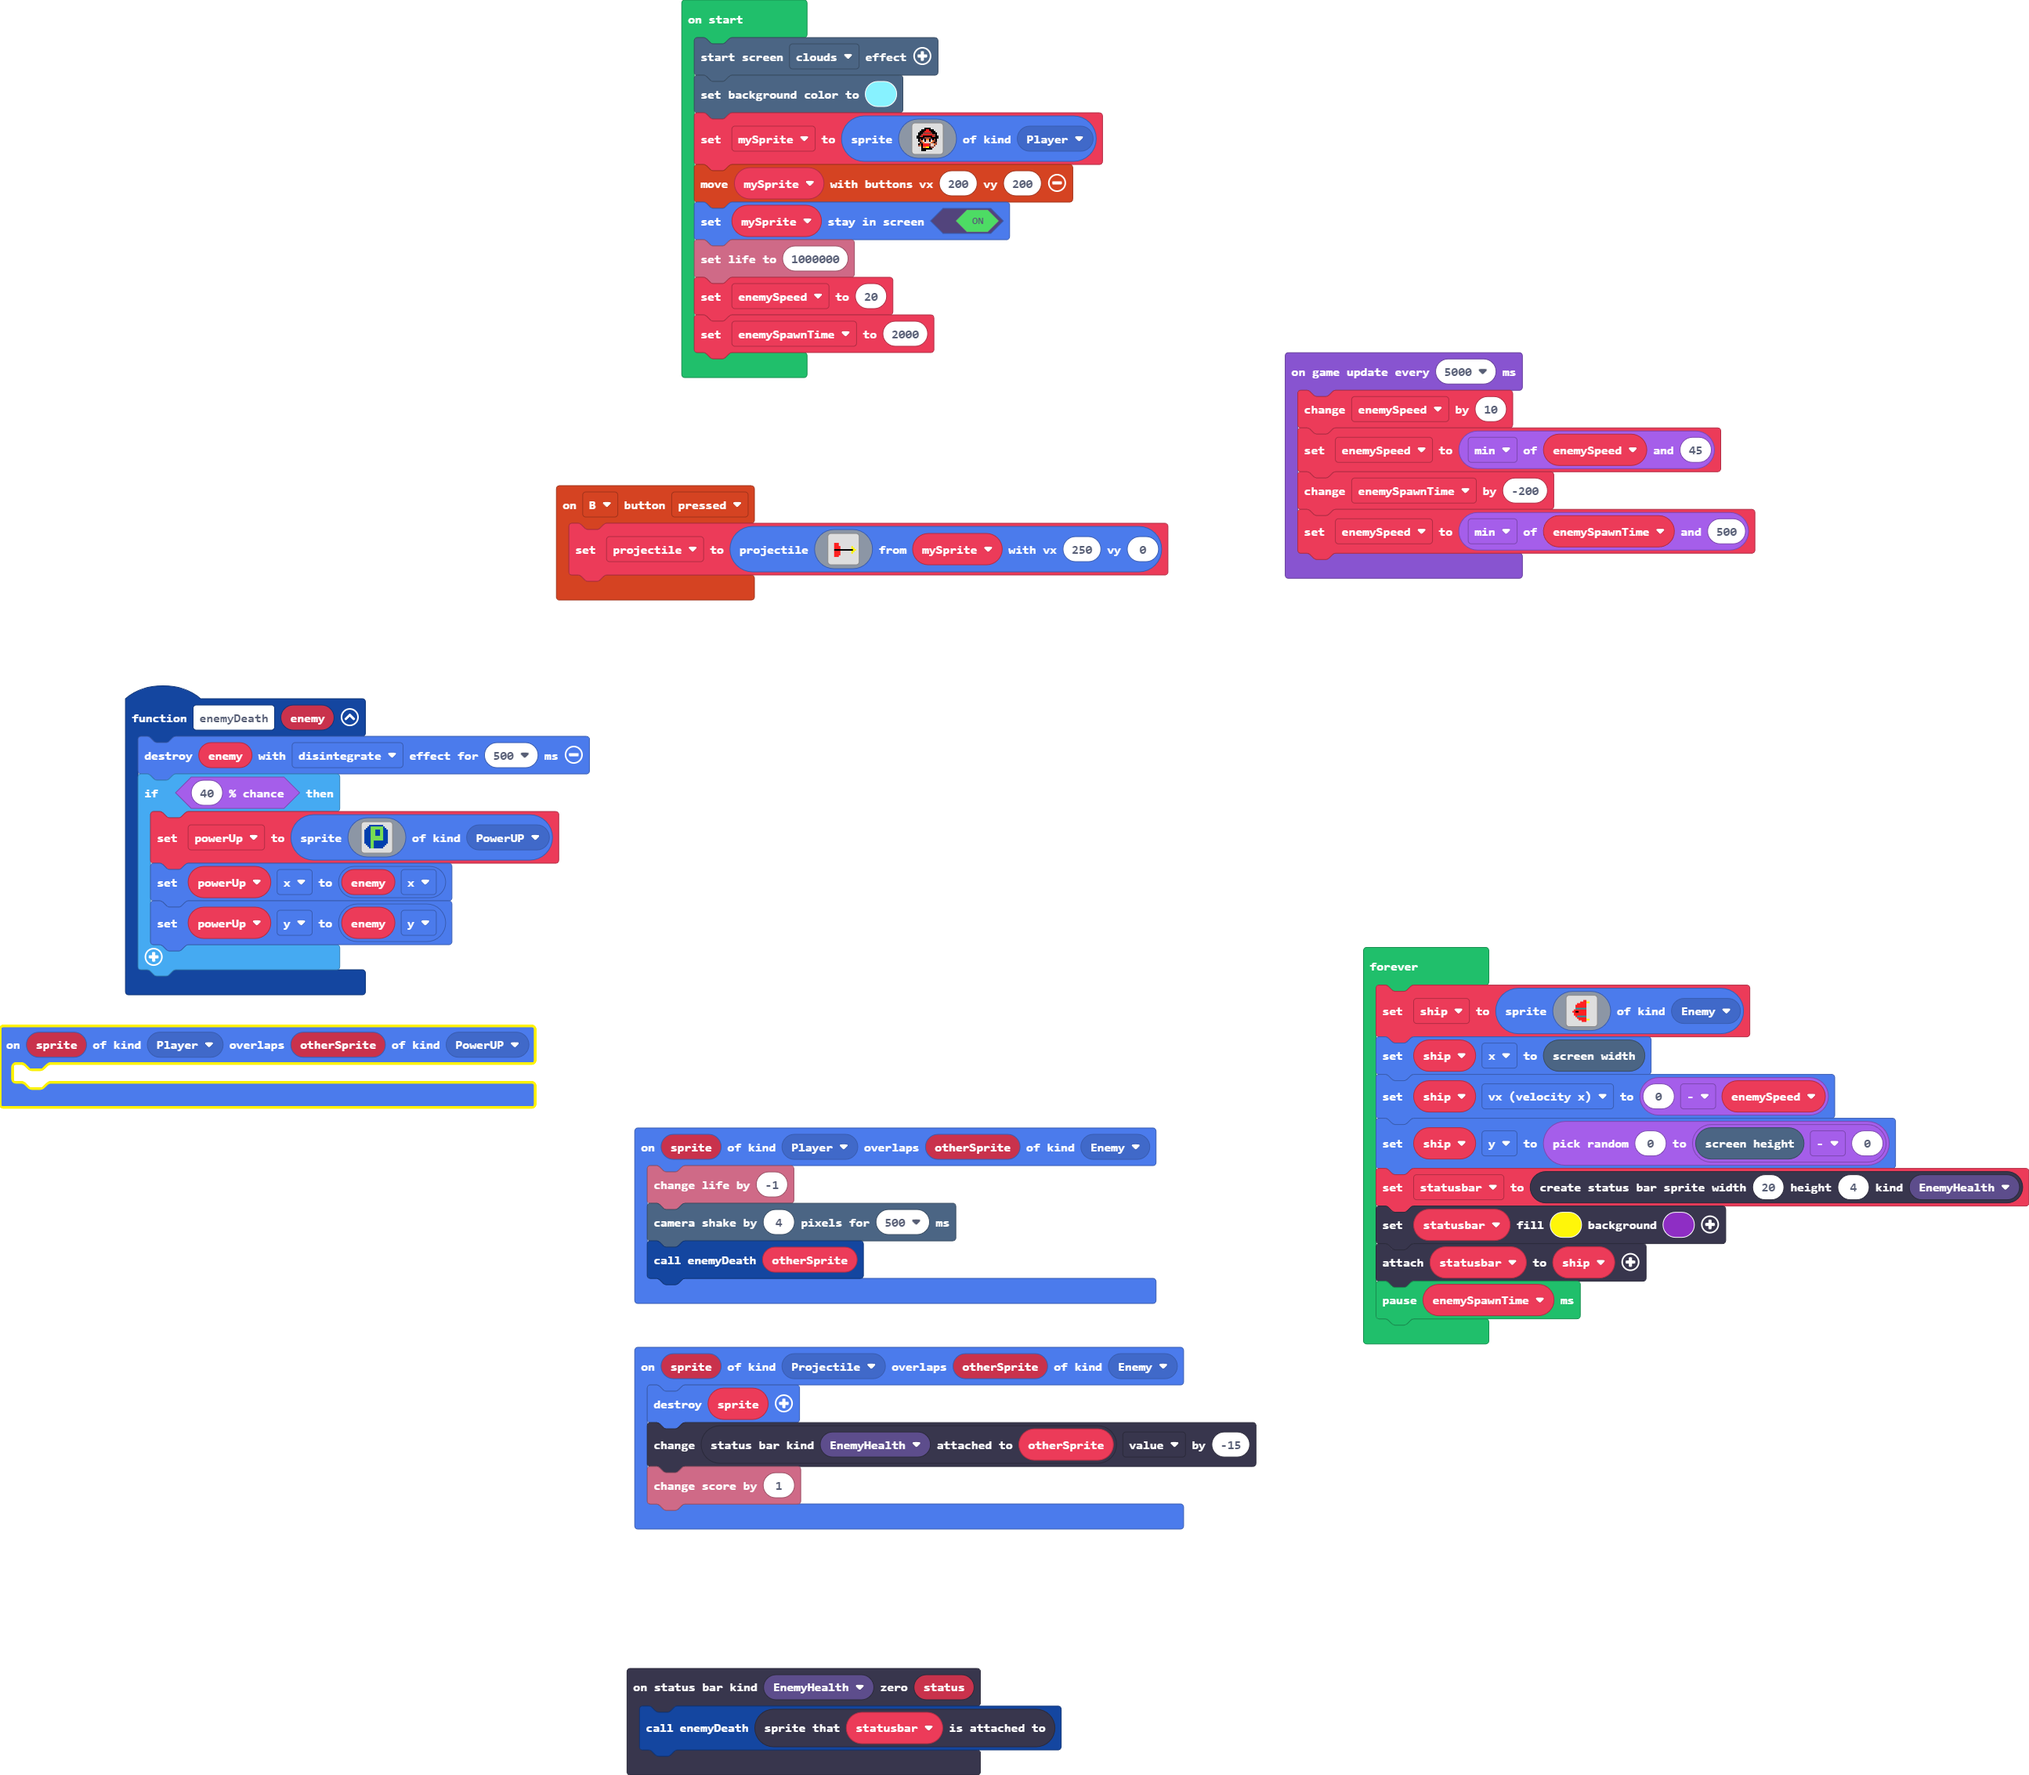
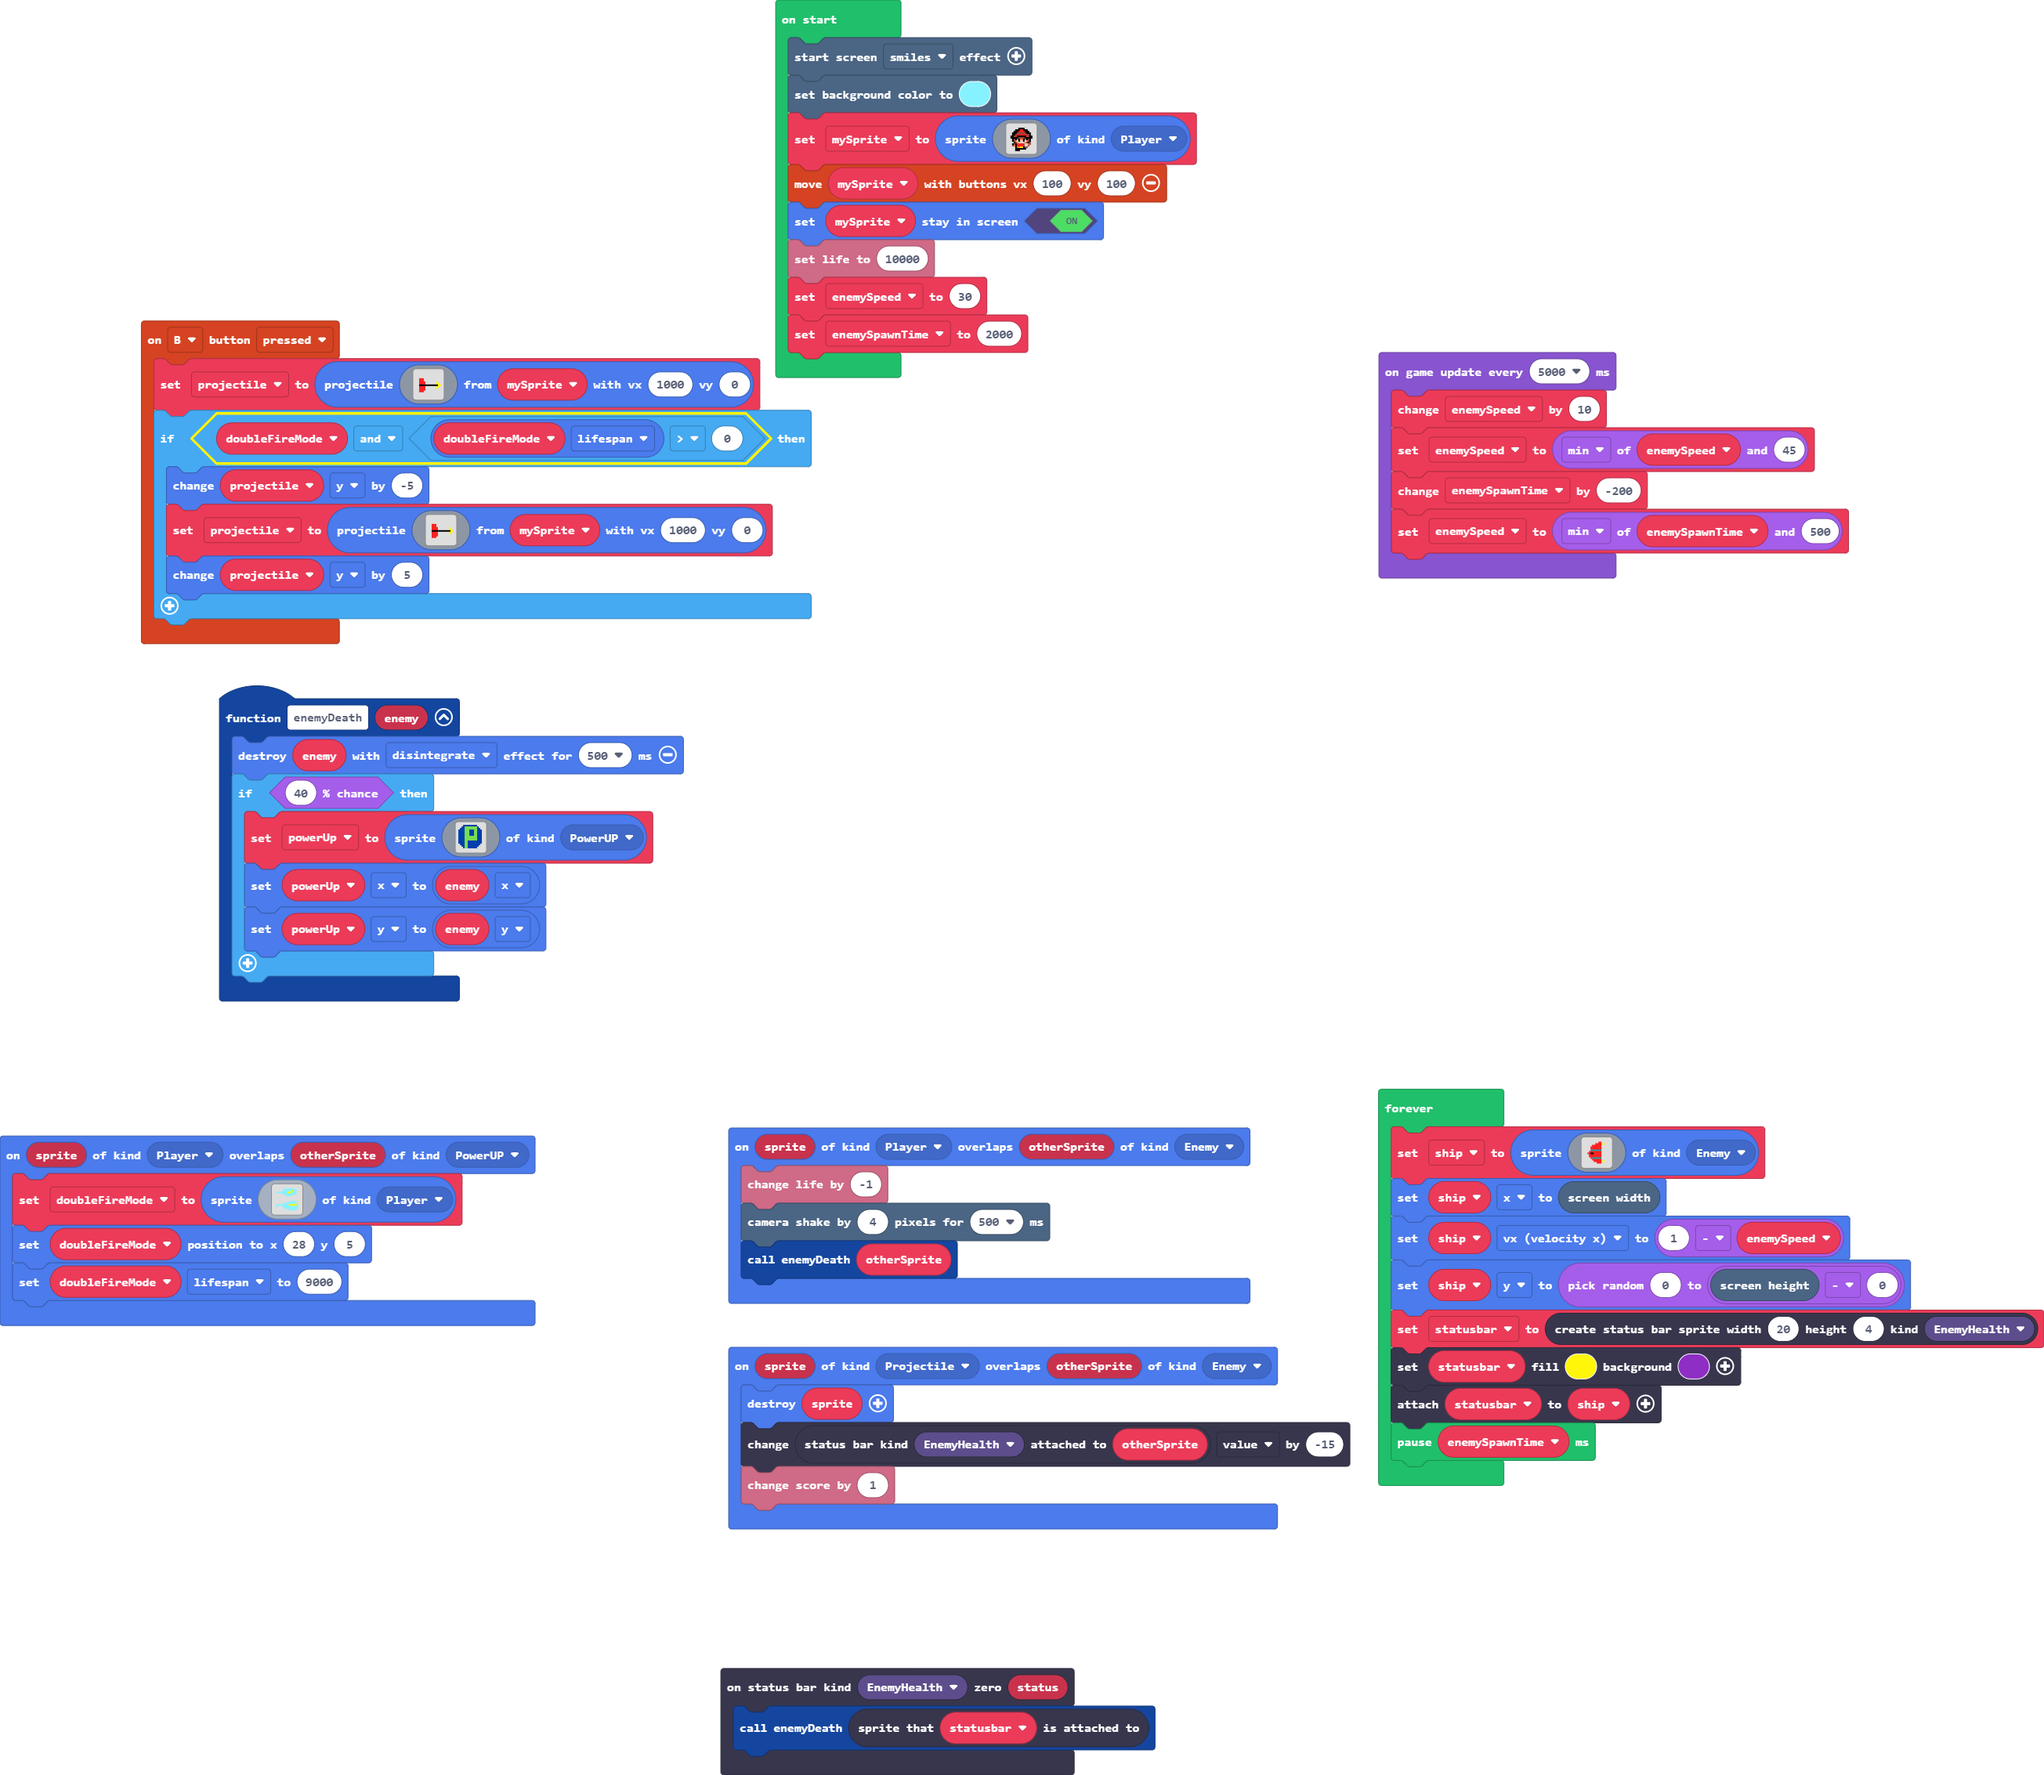
Update pxt.json, main.blocks, main.ts

diff --git a/main.ts b/main.ts
@@ -19,7 +19,29 @@ controller.B.onEvent(ControllerButtonEvent.Pressed, function () {
         . . . . . . . . . . . . . . . . 
         . . . . . . . . . . . . . . . . 
         . . . . . . . . . . . . . . . . 
-        `, mySprite, 250, 0)
+        `, mySprite, 1000, 0)
+    if (doubleFireMode && doubleFireMode.lifespan > 0) {
+        projectile.y += -5
+        projectile = sprites.createProjectileFromSprite(img`
+            . . . . . . . . . . . . . . . . 
+            . . . . . . . . . . . . . . . . 
+            . . . . . . . . . . . . . . . . 
+            . . . . . . . . . . . . . . . . 
+            . . 2 2 2 . . . . . . . . . . . 
+            . . 2 2 2 . . . . . . . . . . . 
+            . . 2 2 2 2 . . . . . . . 5 . . 
+            . . 2 2 2 2 . . . . . . . 5 5 . 
+            . . f f f f f f f f f f f f 5 5 
+            . . 2 2 2 2 . . . . . . . 5 5 . 
+            . . 2 2 2 2 . . . . . . . 5 . . 
+            . . 2 2 2 2 . . . . . . . . . . 
+            . . 2 2 2 . . . . . . . . . . . 
+            . . . . . . . . . . . . . . . . 
+            . . . . . . . . . . . . . . . . 
+            . . . . . . . . . . . . . . . . 
+            `, mySprite, 1000, 0)
+        projectile.y += 5
+    }
 })
 statusbars.onZero(StatusBarKind.EnemyHealth, function (status) {
     enemyDeath(statusbar.spriteAttachedTo())
@@ -50,7 +72,26 @@ function enemyDeath (enemy: Sprite) {
     }
 }
 sprites.onOverlap(SpriteKind.Player, SpriteKind.PowerUP, function (sprite, otherSprite) {
-	
+    doubleFireMode = sprites.create(img`
+        . . . . . . . . . . . . . . . . 
+        . . . . . . 9 9 9 9 9 9 9 . . . 
+        . . . . . 9 9 9 9 9 9 5 9 9 . . 
+        . 9 9 9 9 9 9 9 5 5 5 9 9 9 . . 
+        . . . . . 9 9 9 9 9 9 9 9 9 . . 
+        . . . . . . . 9 9 9 9 . . . . . 
+        . . . . . . . . . . . . . . . . 
+        . . . . . . . . . . . . . . . . 
+        . . . . . . . . . . . . . . . . 
+        . . . . . . . . . 9 9 9 9 9 . . 
+        . . . . . . 9 9 9 9 9 9 9 5 9 . 
+        . 9 9 9 9 9 9 9 9 5 5 5 5 5 9 . 
+        . 9 . . . 9 9 9 9 9 9 9 9 9 9 . 
+        . . . . . . 9 9 9 9 9 9 9 9 9 . 
+        . . . . . . . . . 9 9 9 9 9 . . 
+        . . . . . . . . . . . . . . . . 
+        `, SpriteKind.Player)
+    doubleFireMode.setPosition(28, 5)
+    doubleFireMode.lifespan = 9000
 })
 sprites.onOverlap(SpriteKind.Projectile, SpriteKind.Enemy, function (sprite, otherSprite) {
     sprites.destroy(sprite)
@@ -65,9 +106,10 @@ sprites.onOverlap(SpriteKind.Player, SpriteKind.Enemy, function (sprite, otherSp
 let ship: Sprite = null
 let powerUp: Sprite = null
 let statusbar: StatusBarSprite = null
+let doubleFireMode: Sprite = null
 let projectile: Sprite = null
 let mySprite: Sprite = null
-effects.clouds.startScreenEffect()
+effects.smiles.startScreenEffect()
 scene.setBackgroundColor(9)
 mySprite = sprites.create(img`
     . . . . . . . . . . . . . . . . 
@@ -87,10 +129,10 @@ mySprite = sprites.create(img`
     . . . . f f f f f f f . . . . . 
     . . . . f f f . . . . . . . . . 
     `, SpriteKind.Player)
-controller.moveSprite(mySprite, 200, 200)
+controller.moveSprite(mySprite, 100, 100)
 mySprite.setStayInScreen(true)
-info.setLife(1000000)
-let enemySpeed = 20
+info.setLife(10000)
+let enemySpeed = 30
 let enemySpawnTime = 2000
 game.onUpdateInterval(5000, function () {
     enemySpeed += 10
@@ -118,7 +160,7 @@ forever(function () {
         . . . . . . . . . . . . . . . . 
         `, SpriteKind.Enemy)
     ship.x = scene.screenWidth()
-    ship.vx = 0 - enemySpeed
+    ship.vx = 1 - enemySpeed
     ship.y = randint(0, scene.screenHeight() - 0)
     statusbar = statusbars.create(20, 4, StatusBarKind.EnemyHealth)
     statusbar.setColor(5, 10)
